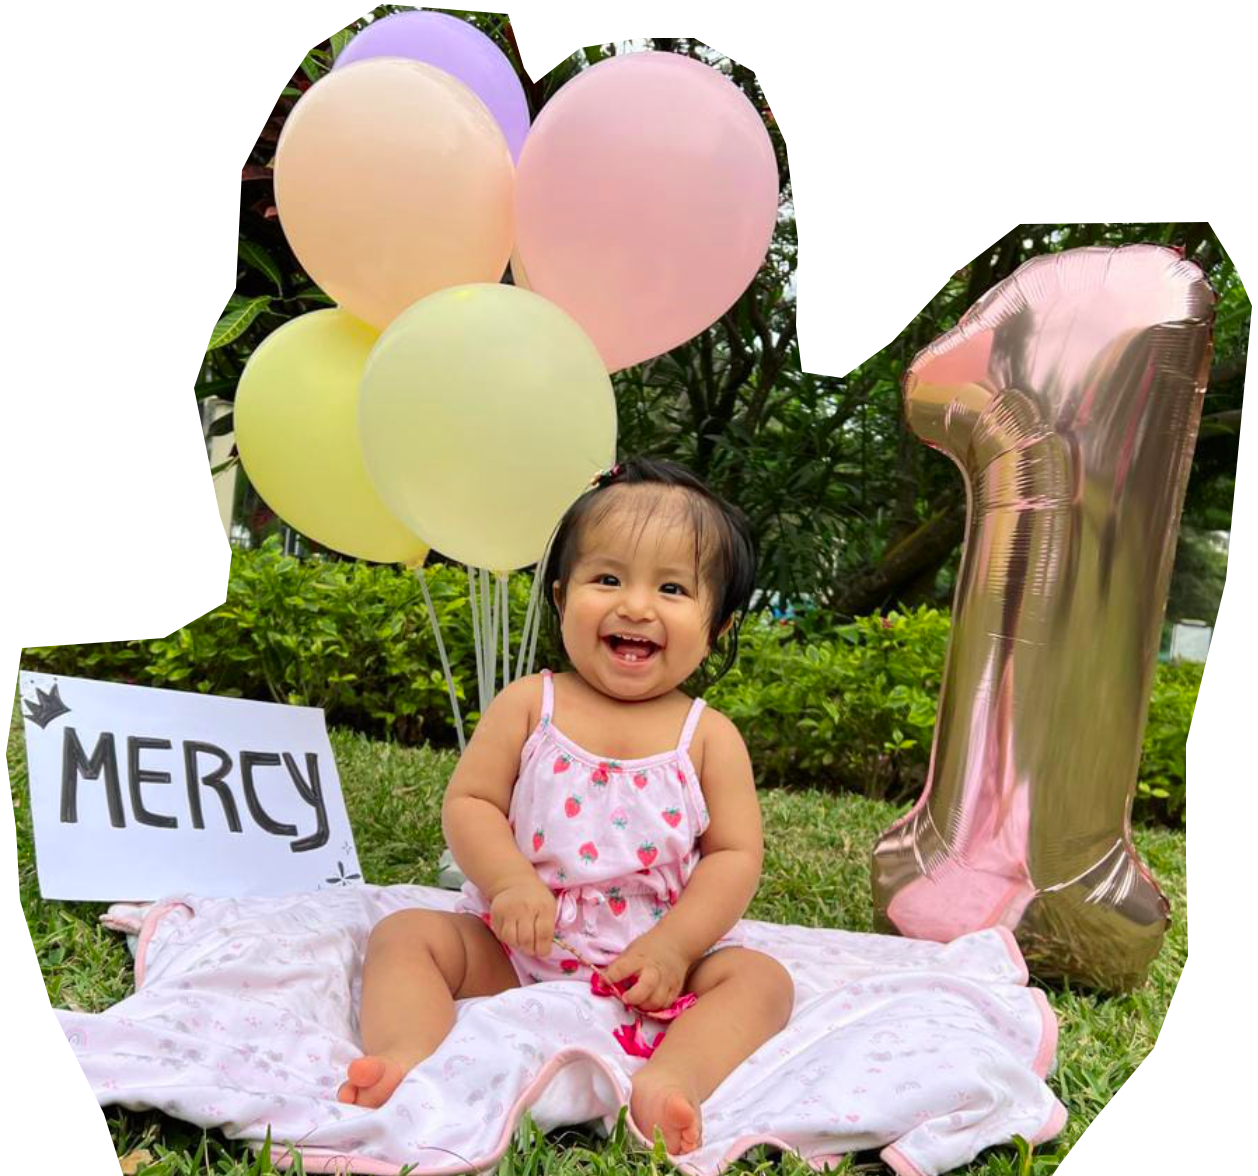
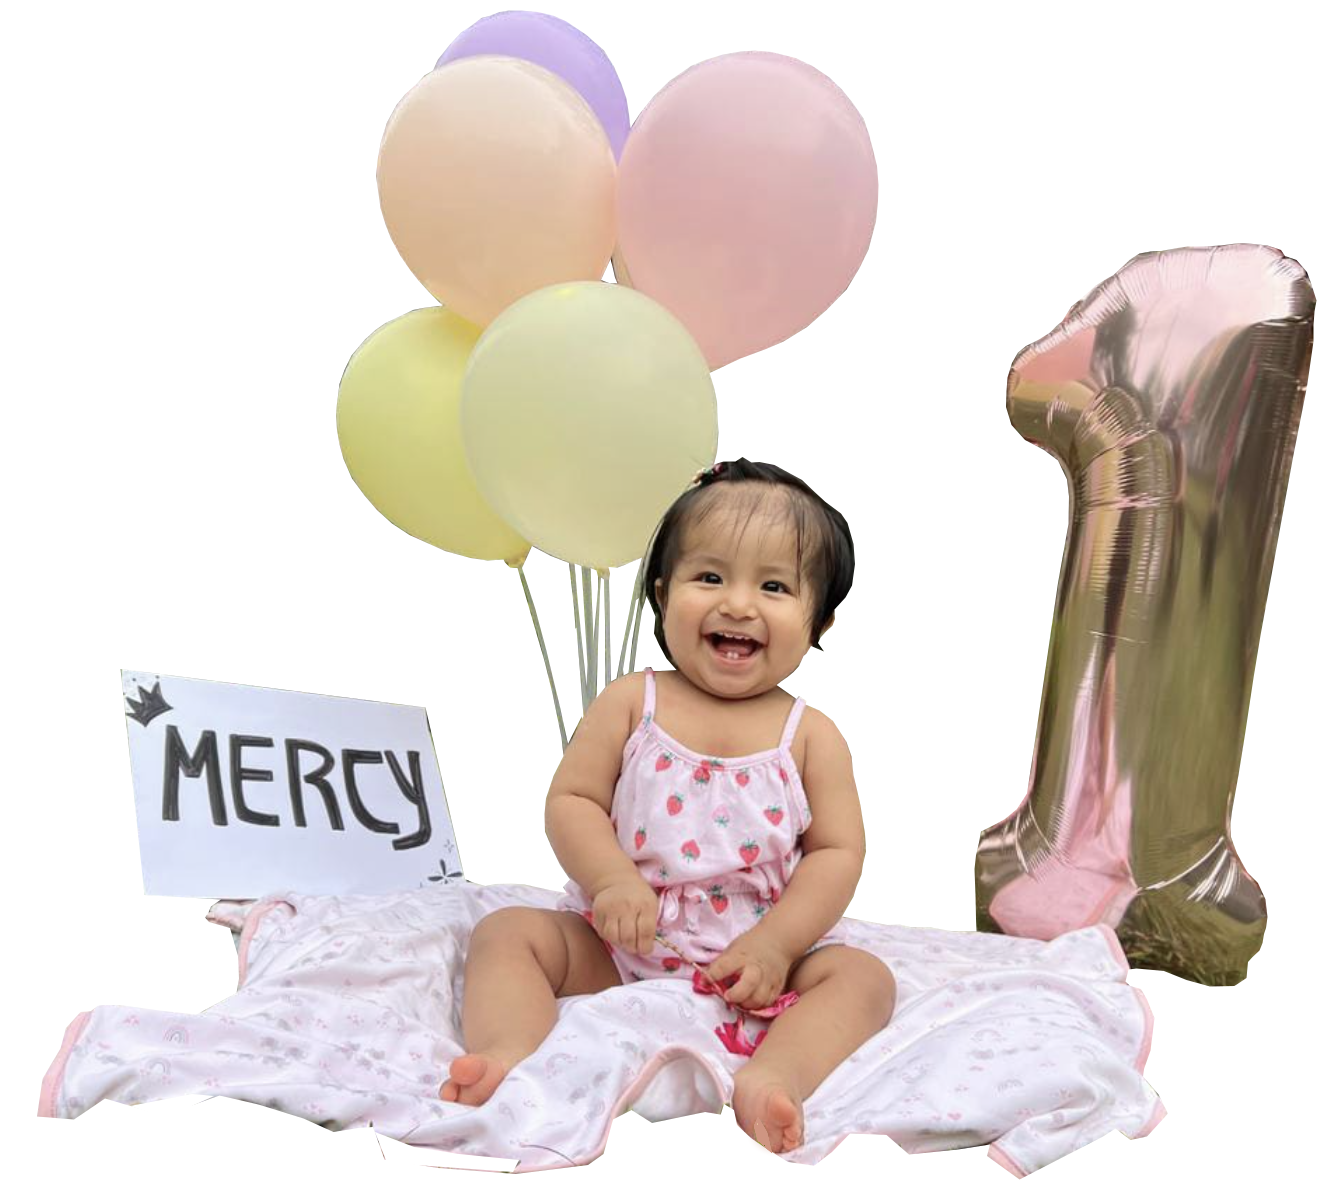
feat: mercy baby

diff --git a/src/app/page.tsx b/src/app/page.tsx
@@ -16,18 +16,17 @@ export default function Home() {
       <audio controls id="indigo" src="/babyshark.mp3" autoPlay ref={audioRef} style={{ display: 'none' }} loop />
       <div className={styles.card}>
         <div className={styles.principal}>
-          <p className={styles.dulce}>NUESTRA</p>
-          <p className={styles.espera}>Querida</p>
+          <p className={styles.dulce}>HOLA!</p>
+          <p className={styles.espera}>amig@</p>
           <Image
-            src="/mercy.png"
+            src="/mercy2.png"
             alt="Mercy Arelyz"
             width={250}
-            height={240}
+            height={202}
             className={styles.sleepBaby}
             priority
           />
-          <p className={styles.estaPor}>HIJA</p>
-          <p className={styles.terminar}>Cumple<br/> un año</p>
+          <p className={styles.terminar}>Con<br/> esta <br/> sonrisa</p>
         </div>
         <div className={styles.info}>
           <Image
@@ -47,10 +46,8 @@ export default function Home() {
             priority
           />
           <div className={styles.infoBaby}>
-            <p className={styles.parentsName}>Rosilda & Miguel</p>
             <p className={styles.sumary}>
-              Tenemos el agrado de invitarte a celebrar el primer cumpleaños
-              de nuestra amada bebé
+              Tengo el agrado de invitarte a celebrar mi primer cumpleaños
             </p>
             <p className={styles.babyName}>
               Mercy Arelyz

diff --git a/src/app/page.module.css b/src/app/page.module.css
@@ -20,13 +20,14 @@
 
 .sleepBaby {
   margin-left: -20px;
-  opacity: 40%;
+  opacity: 100%;
+  rotate: 5deg;
 }
 
 .dulce {
   position: absolute;
-  top: 70px;
-  left: 5px;
+  top: 50px;
+  left: 10px;
   opacity: 60%;
   font-family: 'Roboto Serif';
   font-size: 0.9rem;
@@ -35,7 +36,7 @@
 
 .espera {
   position: absolute;
-  top: 90px;
+  top: 70px;
   left: 15px;
   opacity: 60%;
   font-size: 0.9rem;
@@ -55,7 +56,7 @@
 
 .terminar {
   position: absolute;
-  top: 110px;
+  top: 80px;
   right: 25px;
   opacity: 60%;
   font-size: 0.9rem;
@@ -122,11 +123,12 @@
   font-size: 2.6rem;
   color: #e8787d;
   font-weight: bold;
+  margin-top: 10px;
 }
 
 .eventInfo {
   margin: auto;
-  margin-top: 8px;
+  margin-top: 12px;
 }
 
 .eventInfo td {
@@ -151,7 +153,7 @@
 }
 
 .actionButtons {
-  margin-top: 10px;
+  margin-top: 20px;
   display: flex;
   justify-content: center;
   gap: 10px;
